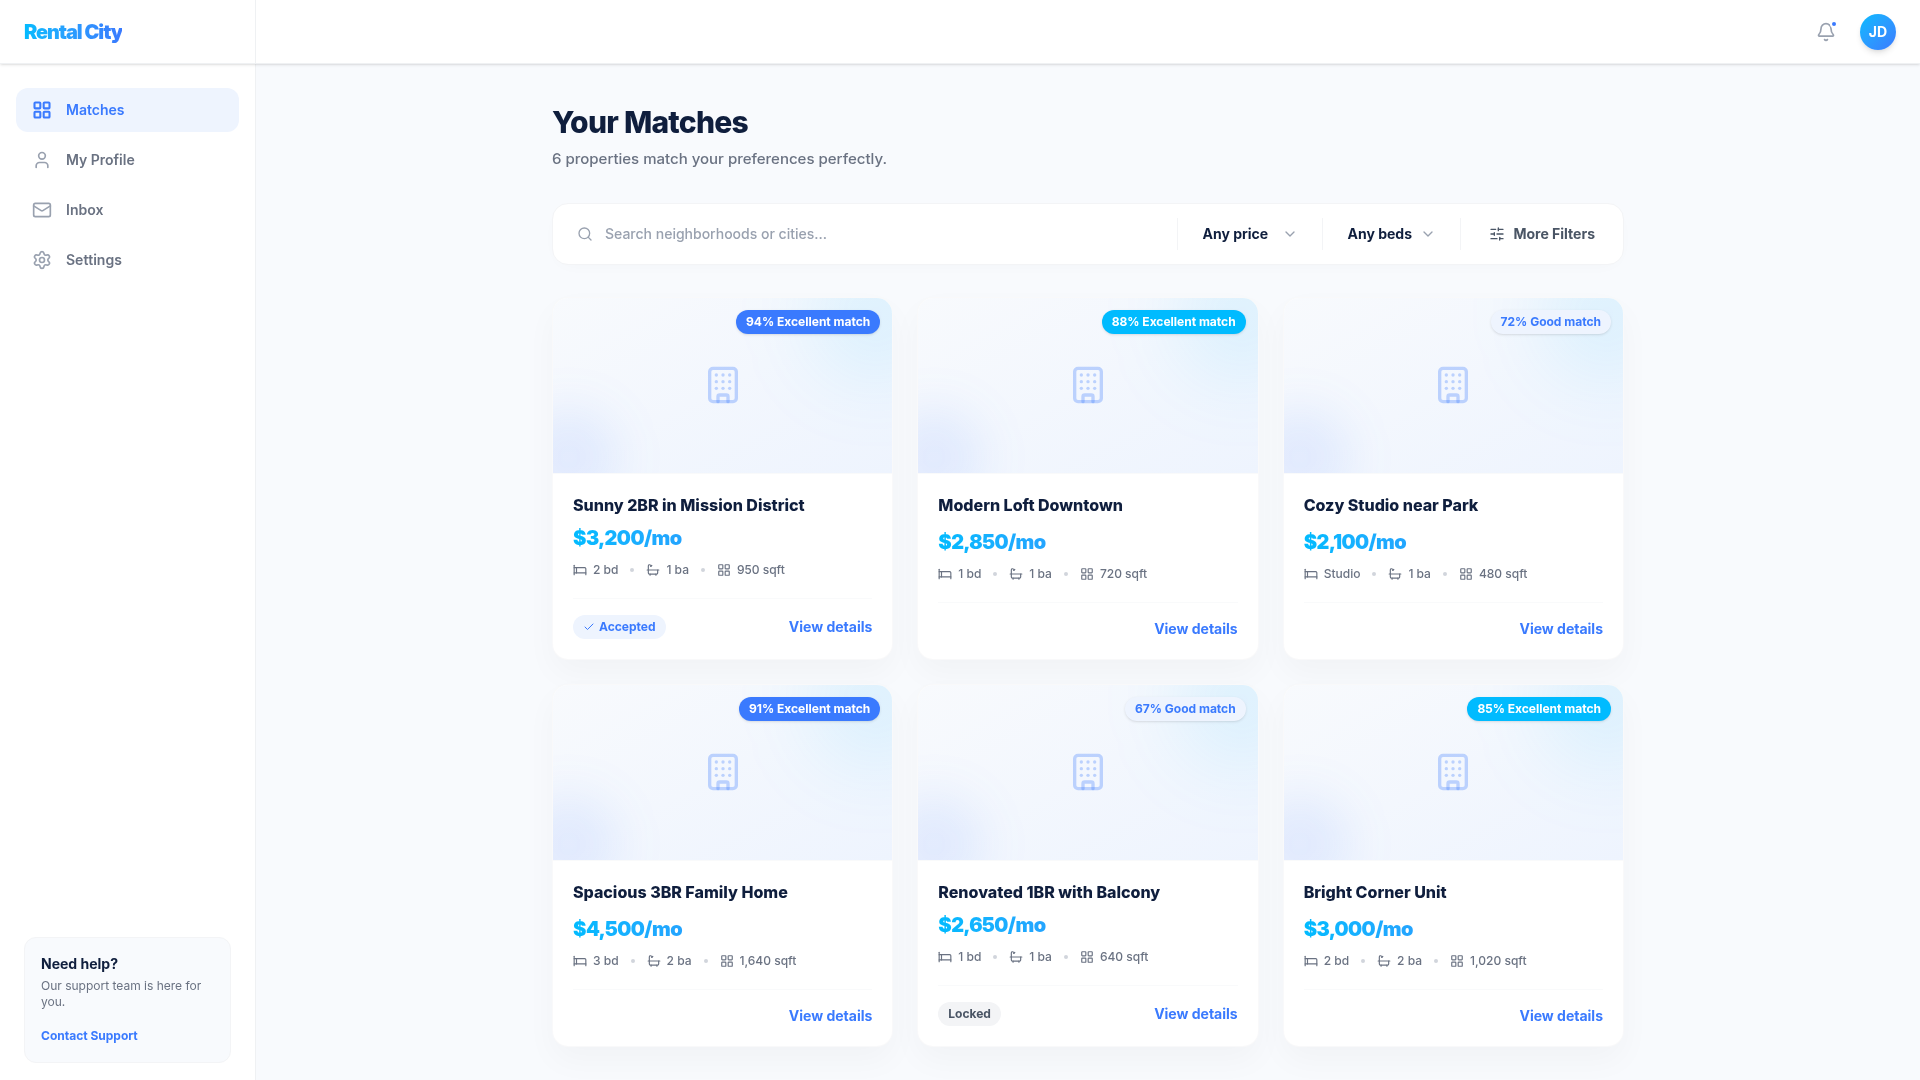
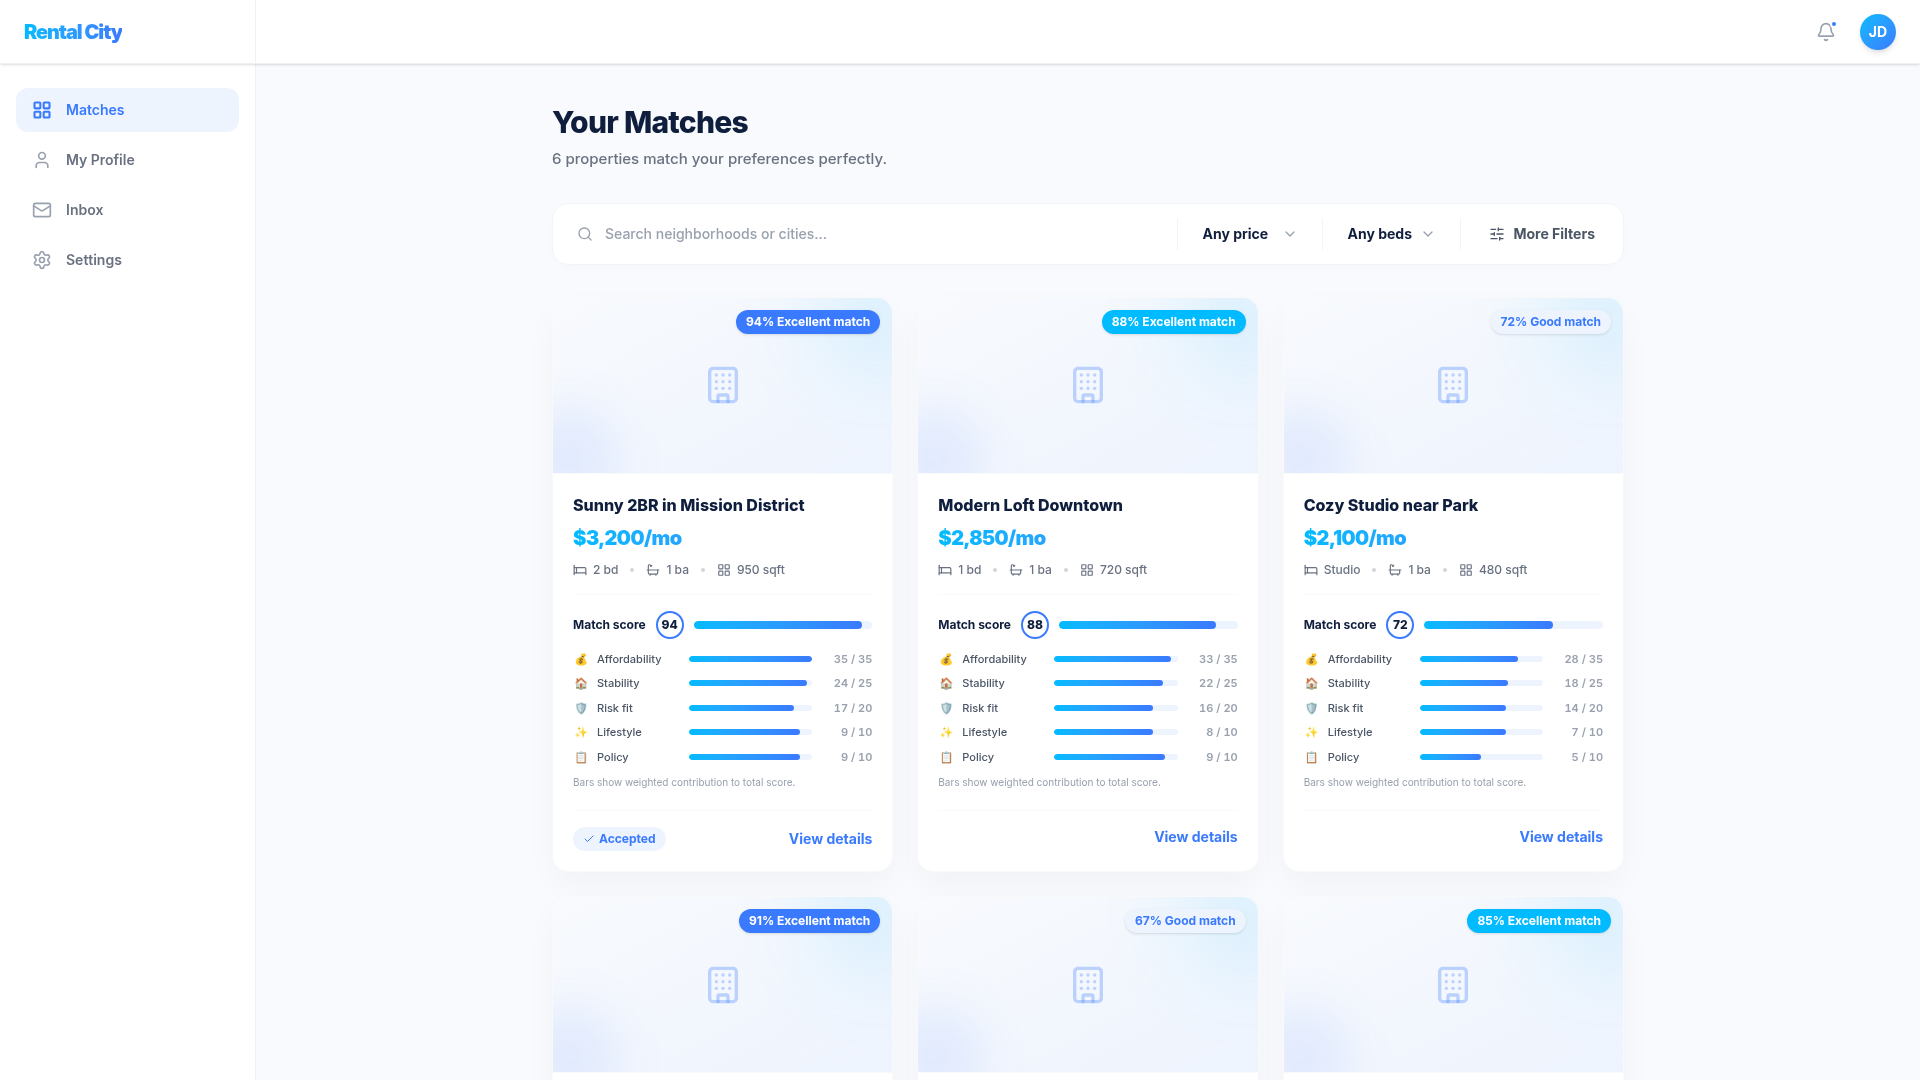
Add detailed match score breakdown to tenant property cards
Update `Redesigned.tsx` to include a comprehensive match score breakdown on tenant property cards, displaying individual dimension scores and their weighted contributions.

Replit-Commit-Author: Agent
Replit-Commit-Session-Id: 0f8f412d-a54f-430b-94f6-e20ffd952a63
Replit-Commit-Checkpoint-Type: full_checkpoint
Replit-Commit-Event-Id: 771d15e5-e8af-48f0-b79b-e863d3e7a9d2
Replit-Commit-Screenshot-Url: https://storage.googleapis.com/screenshot-production-us-central1/5844c47c-1391-404d-b4a9-e9631aee074e/0f8f412d-a54f-430b-94f6-e20ffd952a63/MKS0WOH
Replit-Helium-Checkpoint-Created: true

diff --git a/artifacts/mockup-sandbox/src/components/mockups/tenant-app/Redesigned.tsx b/artifacts/mockup-sandbox/src/components/mockups/tenant-app/Redesigned.tsx
@@ -1,5 +1,5 @@
 import React from 'react';
-import { Home, User, Mail, Settings, Bell, Search, SlidersHorizontal, Bed, Bath, LayoutGrid, MapPin, Building, ChevronDown, Check } from 'lucide-react';
+import { User, Mail, Settings, Bell, Search, SlidersHorizontal, Bed, Bath, LayoutGrid, Building, ChevronDown, Check } from 'lucide-react';
 import './_group.css';
 
 const navItems = [
@@ -9,13 +9,23 @@ const navItems = [
   { label: 'Settings', icon: Settings, active: false },
 ];
 
+type Dims = { affordability: number; stability: number; risk: number; lifestyle: number; policy: number };
+
+const DIMENSIONS: { key: keyof Dims; emoji: string; label: string; max: number }[] = [
+  { key: 'affordability', emoji: '💰', label: 'Affordability', max: 35 },
+  { key: 'stability', emoji: '🏠', label: 'Stability', max: 25 },
+  { key: 'risk', emoji: '🛡', label: 'Risk fit', max: 20 },
+  { key: 'lifestyle', emoji: '✨', label: 'Lifestyle', max: 10 },
+  { key: 'policy', emoji: '📋', label: 'Policy', max: 10 },
+];
+
 const properties = [
-  { title: 'Sunny 2BR in Mission District', price: '$3,200/mo', beds: '2 bd', baths: '1 ba', sqft: '950 sqft', score: 94, label: 'Excellent match', status: 'Accepted' },
-  { title: 'Modern Loft Downtown', price: '$2,850/mo', beds: '1 bd', baths: '1 ba', sqft: '720 sqft', score: 88, label: 'Excellent match', status: null },
-  { title: 'Cozy Studio near Park', price: '$2,100/mo', beds: 'Studio', baths: '1 ba', sqft: '480 sqft', score: 72, label: 'Good match', status: null },
-  { title: 'Spacious 3BR Family Home', price: '$4,500/mo', beds: '3 bd', baths: '2 ba', sqft: '1,640 sqft', score: 91, label: 'Excellent match', status: null },
-  { title: 'Renovated 1BR with Balcony', price: '$2,650/mo', beds: '1 bd', baths: '1 ba', sqft: '640 sqft', score: 67, label: 'Good match', status: 'Locked' },
-  { title: 'Bright Corner Unit', price: '$3,000/mo', beds: '2 bd', baths: '2 ba', sqft: '1,020 sqft', score: 85, label: 'Excellent match', status: null },
+  { title: 'Sunny 2BR in Mission District', price: '$3,200/mo', beds: '2 bd', baths: '1 ba', sqft: '950 sqft', score: 94, label: 'Excellent match', status: 'Accepted', dims: { affordability: 35, stability: 24, risk: 17, lifestyle: 9, policy: 9 } },
+  { title: 'Modern Loft Downtown', price: '$2,850/mo', beds: '1 bd', baths: '1 ba', sqft: '720 sqft', score: 88, label: 'Excellent match', status: null, dims: { affordability: 33, stability: 22, risk: 16, lifestyle: 8, policy: 9 } },
+  { title: 'Cozy Studio near Park', price: '$2,100/mo', beds: 'Studio', baths: '1 ba', sqft: '480 sqft', score: 72, label: 'Good match', status: null, dims: { affordability: 28, stability: 18, risk: 14, lifestyle: 7, policy: 5 } },
+  { title: 'Spacious 3BR Family Home', price: '$4,500/mo', beds: '3 bd', baths: '2 ba', sqft: '1,640 sqft', score: 91, label: 'Excellent match', status: null, dims: { affordability: 34, stability: 23, risk: 17, lifestyle: 9, policy: 8 } },
+  { title: 'Renovated 1BR with Balcony', price: '$2,650/mo', beds: '1 bd', baths: '1 ba', sqft: '640 sqft', score: 67, label: 'Good match', status: 'Locked', dims: { affordability: 25, stability: 17, risk: 13, lifestyle: 7, policy: 5 } },
+  { title: 'Bright Corner Unit', price: '$3,000/mo', beds: '2 bd', baths: '2 ba', sqft: '1,020 sqft', score: 85, label: 'Excellent match', status: null, dims: { affordability: 32, stability: 21, risk: 16, lifestyle: 8, policy: 8 } },
 ];
 
 // Brand Colors
@@ -39,6 +49,42 @@ function statusPill(status: string | null) {
   return <span />;
 }
 
+function MatchBreakdown({ score, dims }: { score: number; dims: Dims }) {
+  return (
+    <div className="mt-4 pt-4 border-t border-gray-50">
+      {/* Overall match score */}
+      <div className="flex items-center gap-2.5 mb-3">
+        <span className="text-xs font-bold text-[#0F1E3D]">Match score</span>
+        <span className="inline-flex h-7 w-7 items-center justify-center rounded-full border-2 border-[#3A7AFE] text-xs font-extrabold text-[#0F1E3D] shrink-0">
+          {score}
+        </span>
+        <div className="flex-1 h-2 rounded-full bg-[#EEF4FE] overflow-hidden">
+          <div className="h-full rounded-full bg-gradient-to-r from-[#00BBFF] to-[#3A7AFE]" style={{ width: `${score}%` }} />
+        </div>
+      </div>
+
+      {/* Per-dimension contribution bars */}
+      <div className="space-y-2">
+        {DIMENSIONS.map((d) => {
+          const val = dims[d.key];
+          const pct = Math.min(100, Math.max(0, (val / d.max) * 100));
+          return (
+            <div key={d.key} className="flex items-center gap-2 text-[11px]">
+              <span className="w-4 text-center shrink-0">{d.emoji}</span>
+              <span className="text-gray-600 font-medium w-[5.25rem] shrink-0">{d.label}</span>
+              <div className="flex-1 h-1.5 rounded-full bg-[#EEF4FE] overflow-hidden">
+                <div className="h-full rounded-full bg-gradient-to-r from-[#00BBFF] to-[#3A7AFE]" style={{ width: `${pct}%` }} />
+              </div>
+              <span className="text-gray-400 font-semibold w-[3.25rem] text-right shrink-0 tabular-nums">{val} / {d.max}</span>
+            </div>
+          );
+        })}
+      </div>
+      <p className="text-[10px] text-gray-400 mt-2.5">Bars show weighted contribution to total score.</p>
+    </div>
+  );
+}
+
 function PropertyCard({ p }: { p: typeof properties[number] }) {
   return (
     <div className="bg-white rounded-2xl border border-gray-100/50 overflow-hidden shadow-[0_14px_32px_rgba(0,0,0,0.03)] hover:shadow-[0_20px_40px_rgba(0,0,0,0.06)] transition-all duration-300 flex flex-col group">
@@ -47,7 +93,7 @@ function PropertyCard({ p }: { p: typeof properties[number] }) {
         <div className="absolute -top-12 -right-12 w-32 h-32 bg-[#00BBFF]/10 rounded-full blur-2xl"></div>
         <div className="absolute -bottom-8 -left-8 w-24 h-24 bg-[#3A7AFE]/10 rounded-full blur-xl"></div>
         <Building className="w-10 h-10 text-[#3A7AFE]/30 relative z-10" />
-        
+
         <div
           className={`absolute top-3 right-3 px-2.5 py-1 rounded-full text-xs font-bold shadow-sm backdrop-blur-sm z-20 ${scoreColor(p.score)}`}
         >
@@ -58,21 +104,23 @@ function PropertyCard({ p }: { p: typeof properties[number] }) {
         <div className="flex items-start justify-between gap-2 mb-2">
           <h3 className="font-extrabold text-[#0F1E3D] text-base leading-snug group-hover:text-[#3A7AFE] transition-colors">{p.title}</h3>
         </div>
-        <div className="mt-auto">
-          <div className="text-xl font-black bg-clip-text text-transparent bg-gradient-to-r from-[#00BBFF] to-[#3A7AFE] tracking-tight">{p.price}</div>
-          <div className="mt-2.5 flex items-center gap-3 text-xs font-medium text-gray-500">
-            <span className="flex items-center gap-1.5"><Bed className="w-3.5 h-3.5" />{p.beds}</span>
-            <span className="w-1 h-1 rounded-full bg-gray-300"></span>
-            <span className="flex items-center gap-1.5"><Bath className="w-3.5 h-3.5" />{p.baths}</span>
-            <span className="w-1 h-1 rounded-full bg-gray-300"></span>
-            <span className="flex items-center gap-1.5"><LayoutGrid className="w-3.5 h-3.5" />{p.sqft}</span>
-          </div>
-          <div className="mt-5 flex items-center justify-between pt-4 border-t border-gray-50">
-            {statusPill(p.status)}
-            <button className="text-sm font-bold text-[#3A7AFE] hover:text-[#0F1E3D] transition-colors ml-auto flex items-center gap-1">
-              View details
-            </button>
-          </div>
+        <div className="text-xl font-black bg-clip-text text-transparent bg-gradient-to-r from-[#00BBFF] to-[#3A7AFE] tracking-tight">{p.price}</div>
+        <div className="mt-2.5 flex items-center gap-3 text-xs font-medium text-gray-500">
+          <span className="flex items-center gap-1.5"><Bed className="w-3.5 h-3.5" />{p.beds}</span>
+          <span className="w-1 h-1 rounded-full bg-gray-300"></span>
+          <span className="flex items-center gap-1.5"><Bath className="w-3.5 h-3.5" />{p.baths}</span>
+          <span className="w-1 h-1 rounded-full bg-gray-300"></span>
+          <span className="flex items-center gap-1.5"><LayoutGrid className="w-3.5 h-3.5" />{p.sqft}</span>
+        </div>
+
+        {/* Match score + weighted breakdown */}
+        <MatchBreakdown score={p.score} dims={p.dims} />
+
+        <div className="mt-5 flex items-center justify-between pt-4 border-t border-gray-50">
+          {statusPill(p.status)}
+          <button className="text-sm font-bold text-[#3A7AFE] hover:text-[#0F1E3D] transition-colors ml-auto flex items-center gap-1">
+            View details
+          </button>
         </div>
       </div>
     </div>
@@ -111,8 +159,8 @@ export function Redesigned() {
                 <a
                   key={item.label}
                   className={`flex items-center gap-3.5 px-4 py-3 rounded-xl transition-all cursor-pointer font-semibold text-sm ${
-                    item.active 
-                      ? 'bg-[#EEF4FE] text-[#3A7AFE]' 
+                    item.active
+                      ? 'bg-[#EEF4FE] text-[#3A7AFE]'
                       : 'text-gray-500 hover:bg-gray-50 hover:text-[#0F1E3D]'
                   }`}
                 >
@@ -122,7 +170,7 @@ export function Redesigned() {
               );
             })}
           </nav>
-          
+
           {/* Help / Bottom Section */}
           <div className="p-6 mt-auto">
             <div className="bg-[#F8FAFD] rounded-xl p-4 border border-gray-100">
@@ -145,14 +193,14 @@ export function Redesigned() {
             <div className="bg-white p-2 rounded-2xl border border-gray-100 shadow-[0_4px_20px_-10px_rgba(0,0,0,0.05)] flex flex-wrap items-center gap-2 mb-8">
               <div className="flex-1 min-w-[240px] relative">
                 <Search className="w-4 h-4 text-gray-400 absolute left-4 top-1/2 -translate-y-1/2" />
-                <input 
-                  className="w-full pl-11 pr-4 py-3 bg-transparent text-sm font-medium text-[#0F1E3D] placeholder-gray-400 focus:outline-none focus:ring-2 focus:ring-[#3A7AFE]/20 rounded-xl transition-shadow" 
-                  placeholder="Search neighborhoods or cities..." 
+                <input
+                  className="w-full pl-11 pr-4 py-3 bg-transparent text-sm font-medium text-[#0F1E3D] placeholder-gray-400 focus:outline-none focus:ring-2 focus:ring-[#3A7AFE]/20 rounded-xl transition-shadow"
+                  placeholder="Search neighborhoods or cities..."
                 />
               </div>
-              
+
               <div className="w-px h-8 bg-gray-100 hidden sm:block"></div>
-              
+
               <div className="relative shrink-0">
                 <select className="appearance-none pl-4 pr-10 py-3 bg-transparent text-sm font-bold text-[#0F1E3D] focus:outline-none cursor-pointer">
                   <option>Any price</option>
@@ -162,9 +210,9 @@ export function Redesigned() {
                 </select>
                 <ChevronDown className="w-4 h-4 text-gray-400 absolute right-4 top-1/2 -translate-y-1/2 pointer-events-none" />
               </div>
-              
+
               <div className="w-px h-8 bg-gray-100 hidden sm:block"></div>
-              
+
               <div className="relative shrink-0">
                 <select className="appearance-none pl-4 pr-10 py-3 bg-transparent text-sm font-bold text-[#0F1E3D] focus:outline-none cursor-pointer">
                   <option>Any beds</option>
